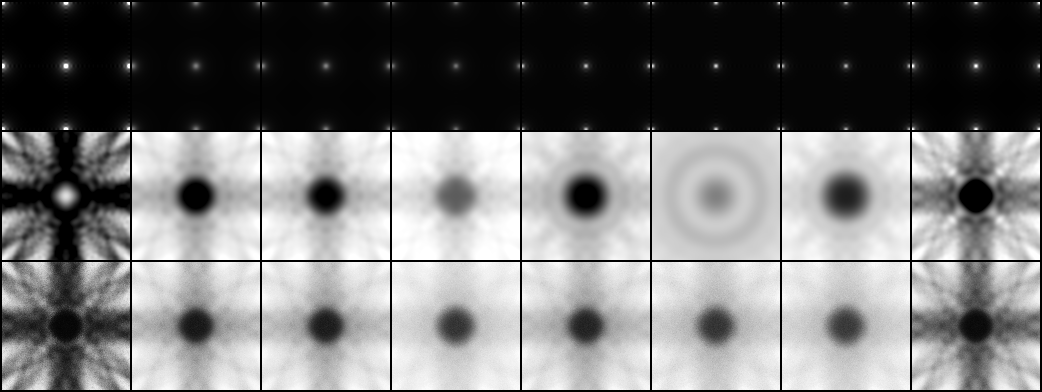
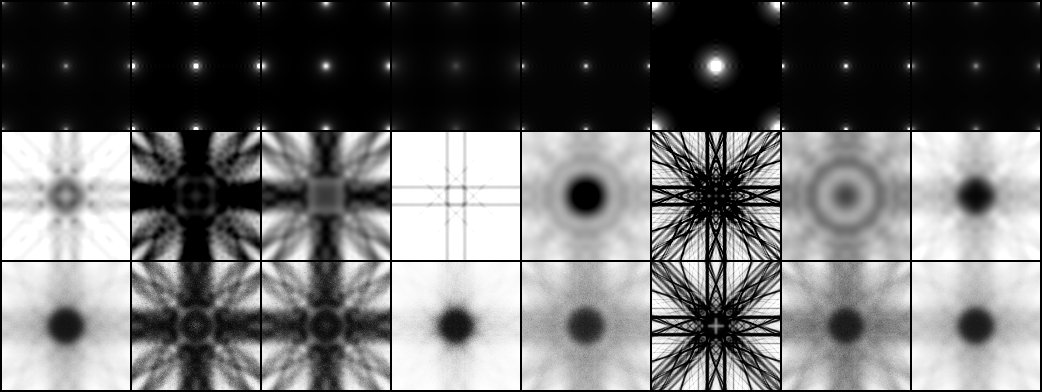
Very good predicition results from the CVAE now - using larger dataset

diff --git a/vae/main.py b/vae/main.py
@@ -23,9 +23,9 @@ epochs = 10
 
 flag_location = os.path.abspath(os.path.join(os.path.dirname(__file__), "..", "datasets", "flag"))
 flag_dataset = FLAGDataset(flag_location)
-flag_shrunk = torch.utils.data.Subset(flag_dataset, torch.arange(5000))
+flag_shrunk = torch.utils.data.Subset(flag_dataset, torch.arange(11000))
 
-train_dataset, test_dataset = random_split(flag_shrunk, [4000, 1000])
+train_dataset, test_dataset = random_split(flag_shrunk, [10000, 1000])
 train_loader = DataLoader(
     dataset=train_dataset,  # the dataset instance
     batch_size=batch_size,  # automatic batching
@@ -40,13 +40,6 @@ test_loader = DataLoader(
     shuffle=True,  # shuffles the dataset before every epoch
     num_workers=1,
 )
-
-
-# def one_hot(lattice, class_size):
-#     targets = torch.zeros(lattice.size(0), class_size)
-#     for i, label in enumerate(lattice):
-#         targets[i, label] = 1
-#     return targets.to(device)
 
 
 class CVAE(nn.Module):

diff --git a/datasets/flag.py b/datasets/flag.py
@@ -21,10 +21,12 @@ class FLAGDataset(Dataset):
 
     def __getitem__(self, idx):
         # accessing data at particular indexes
-        input_img = np.clip(np.load(self.data[idx][0]), 0.0, 1.0)
-        output_img = np.clip(np.load(self.data[idx][1]), 0.0, 1.0)
-
-        # pytorch tensors should be returned as tensor is the primary data type pytorch works with
+        try:
+            input_img = np.clip(np.load(self.data[idx][0]), 0.0, 1.0)
+            output_img = np.clip(np.load(self.data[idx][1]), 0.0, 1.0)
+        except(IndexError):
+            raise IndexError(f"Attempted to access index: {idx} and received IndexError")
+        
         return [torch.from_numpy(output_img).float().clone().detach(),
                 torch.from_numpy(input_img).float().clone().detach()]
 
